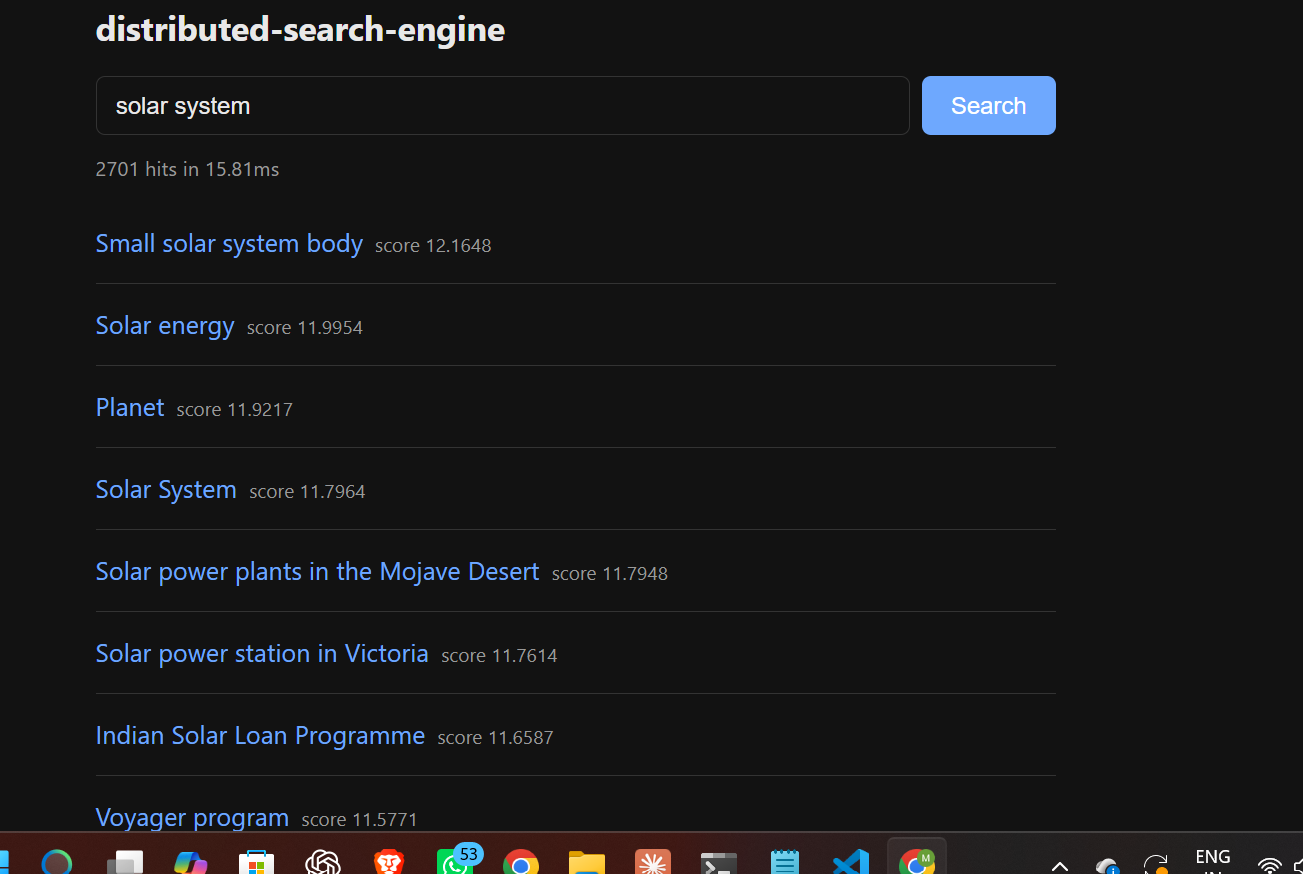
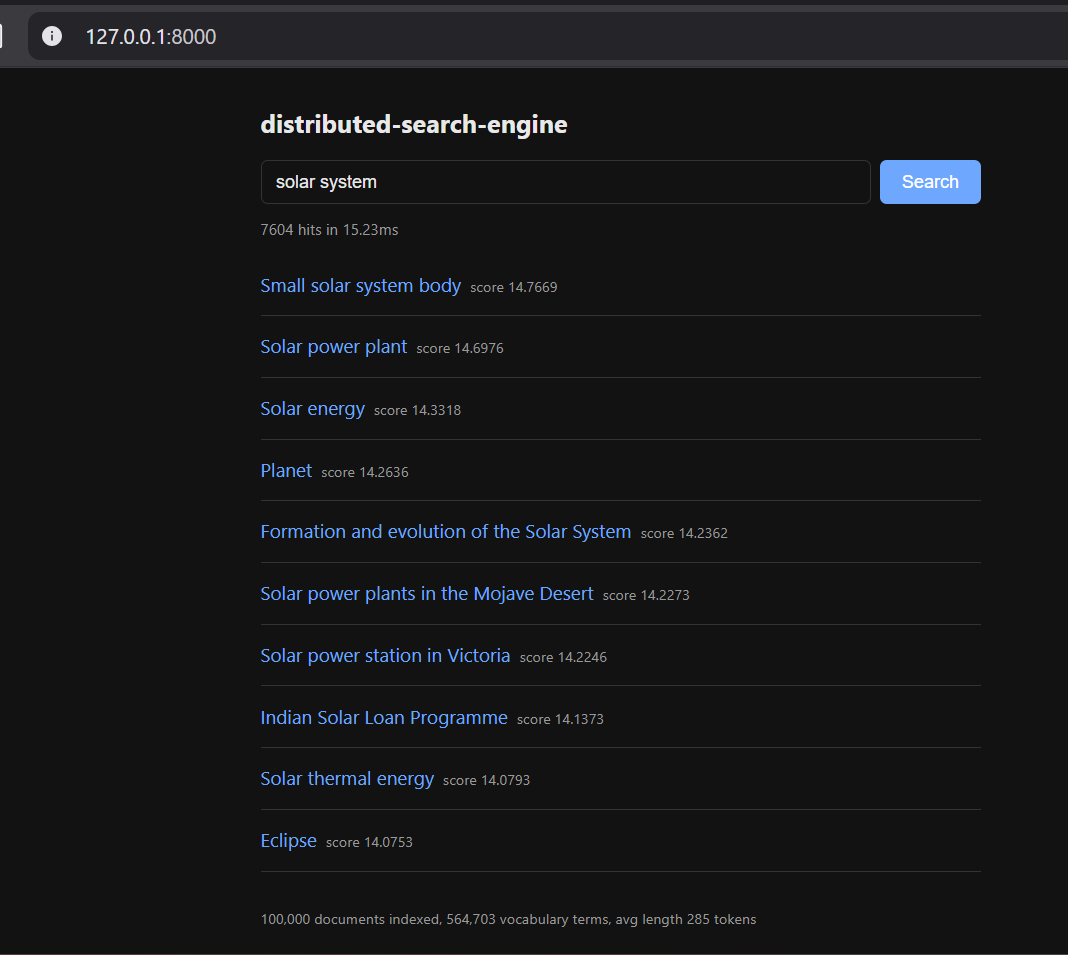
Update screenshot to 100K corpus; README findings

diff --git a/README.md b/README.md
@@ -211,6 +211,31 @@ relative to prose is an index/list page regardless of its content, and could
 be filtered or down-weighted before indexing rather than patched at ranking
 time.
 
+### Exact-title matches degrade as the corpus grows
+
+The query "solar system" returns the "Solar System" article at rank 4 on
+the 20K corpus. On the 100K corpus, run against the same ranker, it does not
+appear in the top 10 at all — crowded out by "Solar power"/"Solar energy"
+articles, several of which score within 0.7 of each other.
+
+Cause: `BM25Ranker` (`src/search/ranking/bm25.py`) scores title and body
+text identically — there's no field weighting, so a term appearing in the
+title carries exactly as much weight as the same term appearing once in
+running body text. A query that's *literally the title of the best answer*
+gets no credit for that. This doesn't show up at small corpus sizes because
+there are few enough competing documents that the right one still clears the
+bar; it degrades specifically as corpus size grows, because a bigger corpus
+supplies more documents that mention "solar" and "system"/"power"/"energy"
+somewhere in their body text at a similar term frequency — more weak
+competitors bunched at a similar score, any of which can outrank the exact
+match once enough of them exist.
+
+The standard remedy is BM25F: score title and body as separate fields with
+independent weights, so a title hit outweighs an equivalent body hit rather
+than tying with it. Not implemented — like the index-page pathology above,
+this is a ranking-model gap rather than a bug in the existing implementation
+of the model it does have.
+
 ### The stemmer's documented collisions
 
 `_stem` (`src/search/index/tokenizer.py`) can collapse two unrelated words
